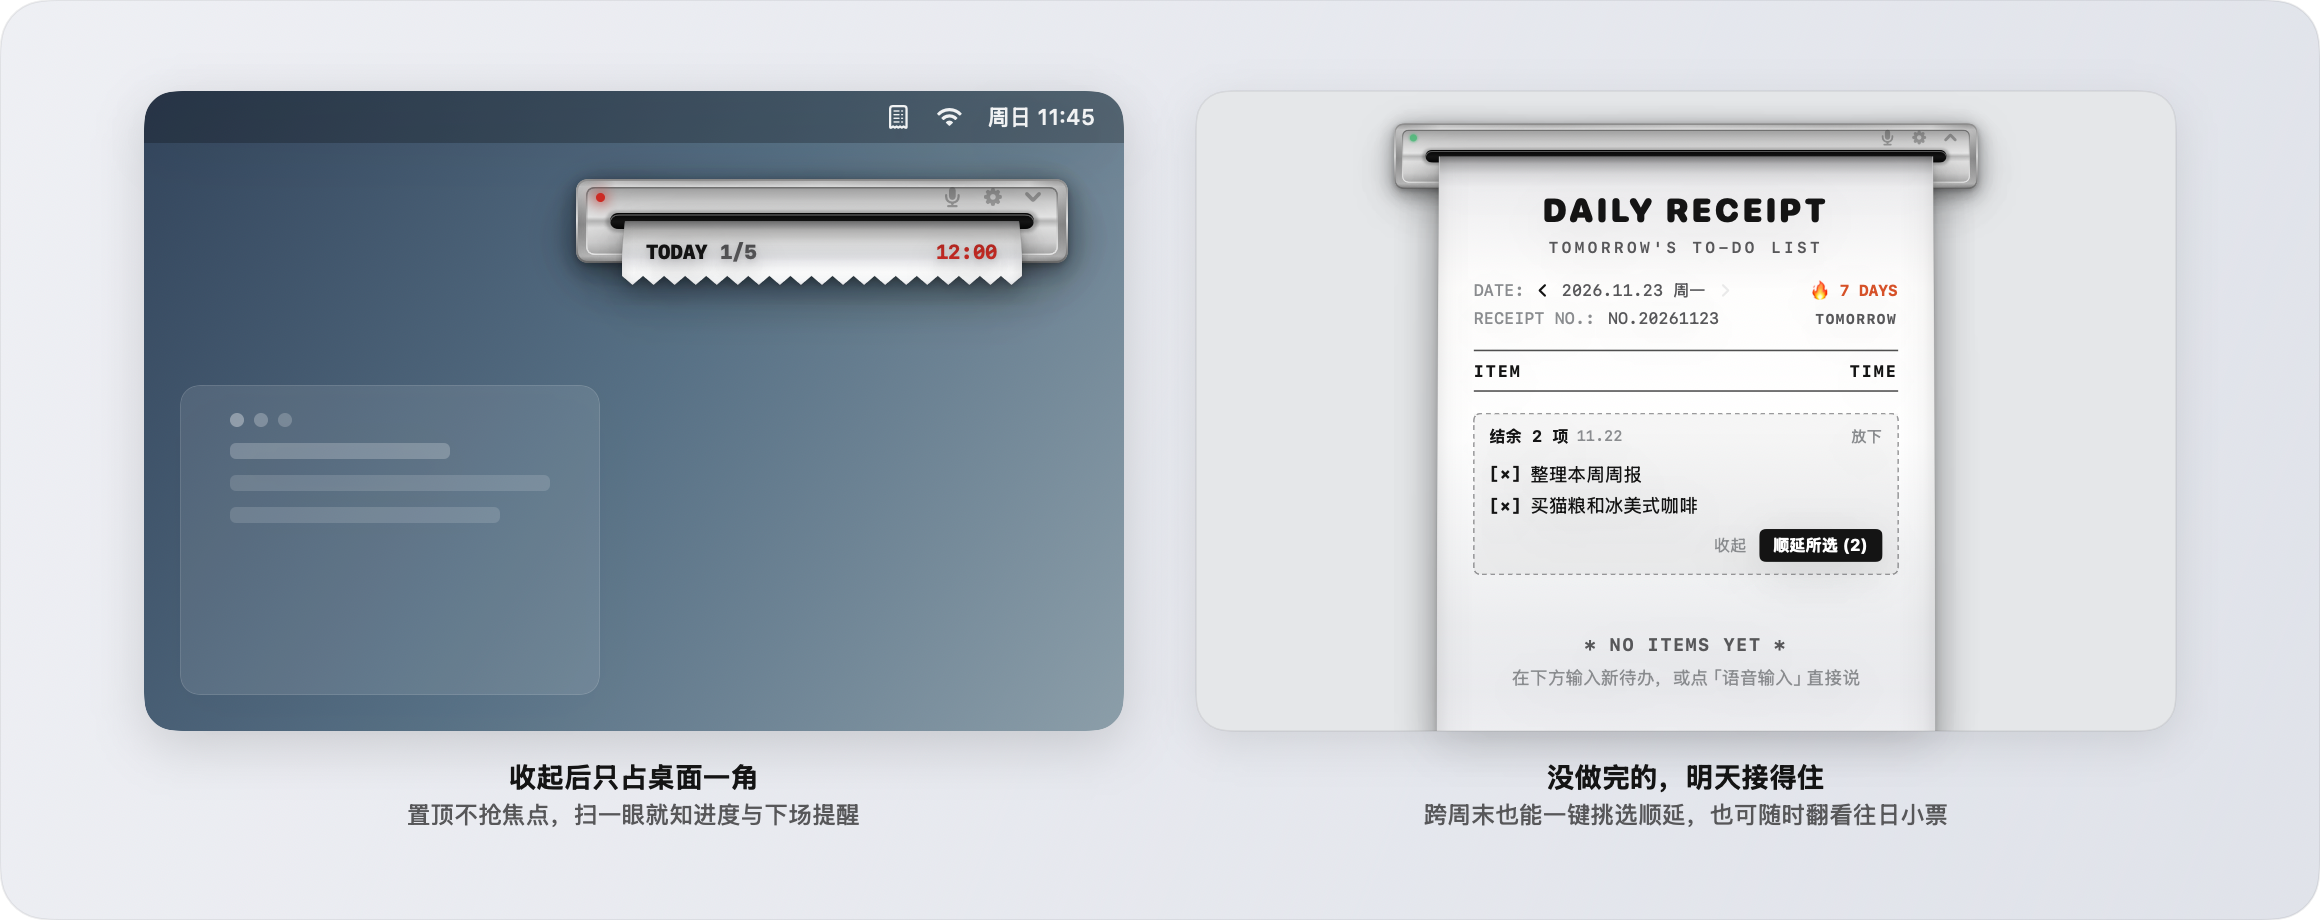
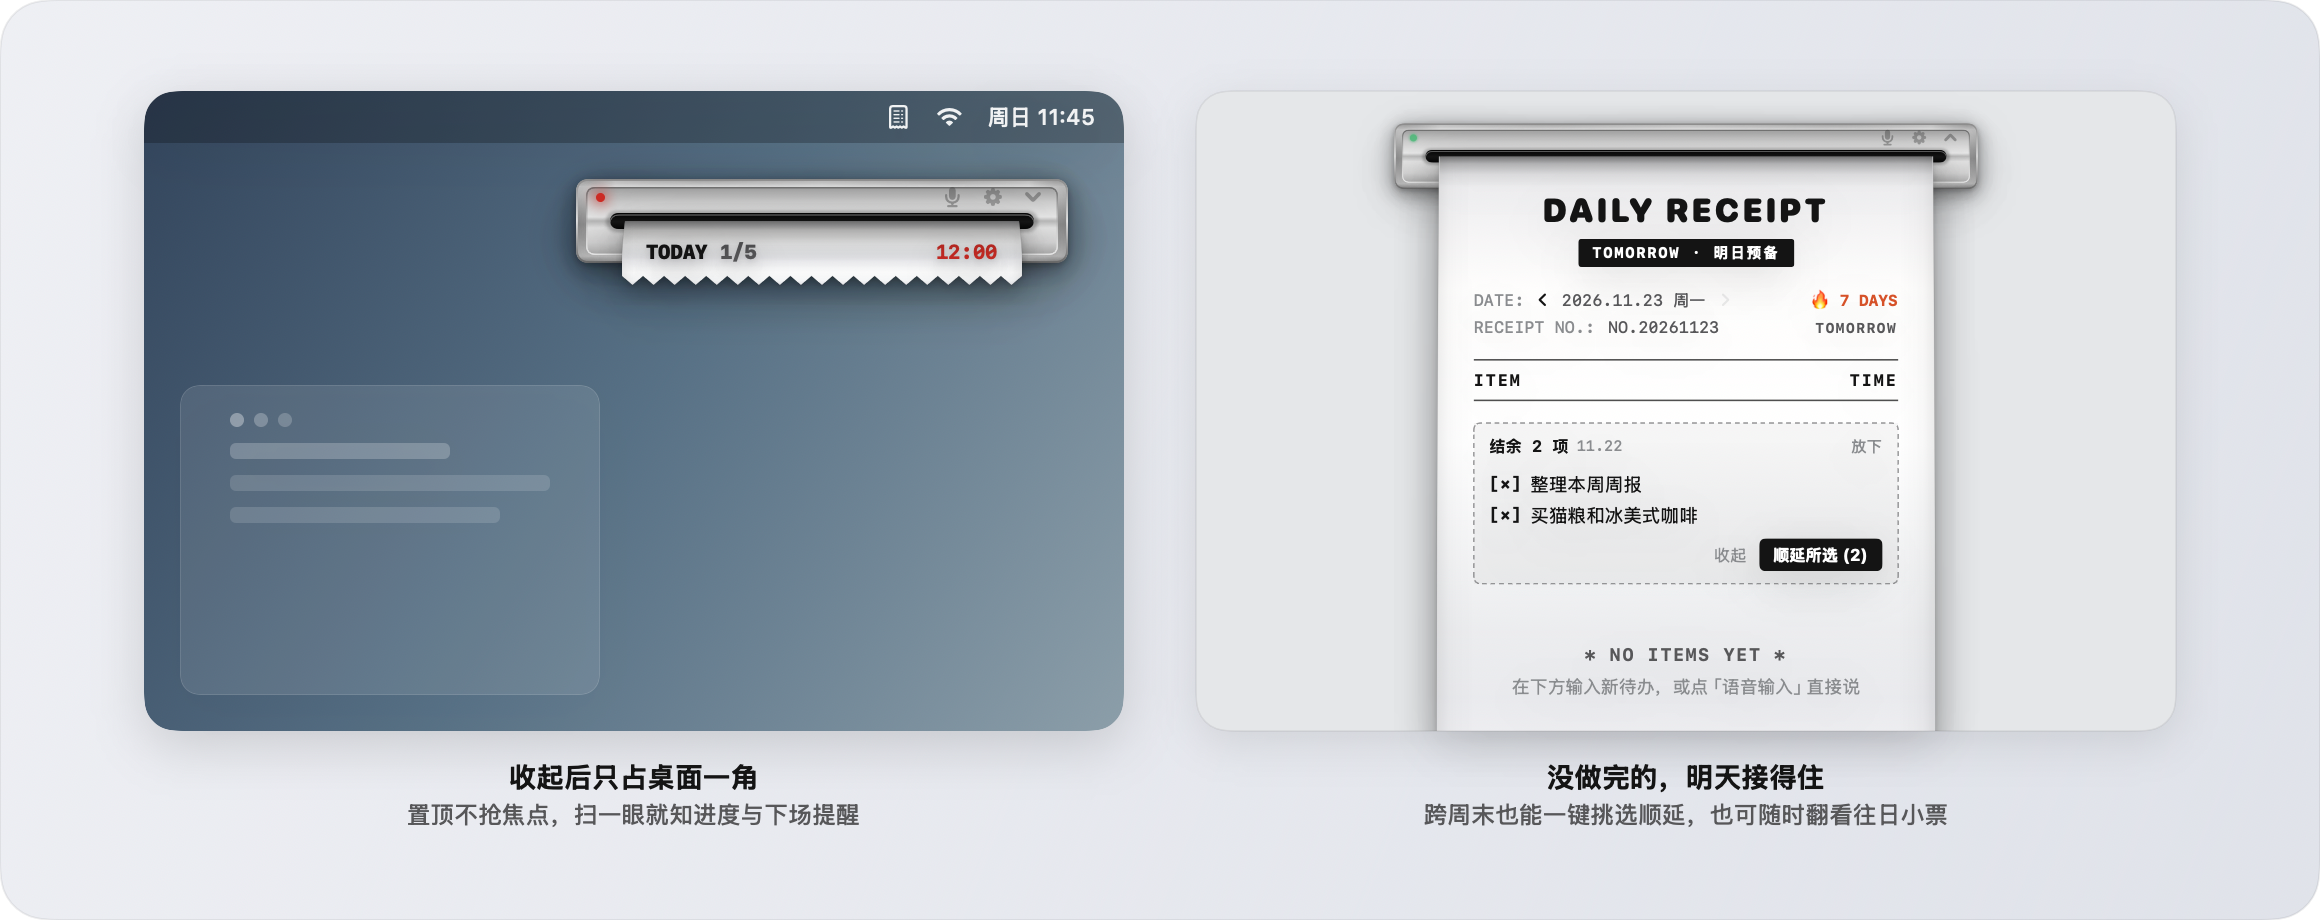
ui: add high-contrast TOMORROW badge on tomorrow receipt header

Changed region(s): [[0.6207, 0.2435, 0.8379, 0.5783], [0.6517, 0.7, 0.8069, 0.7609], [0.7448, 0.5478, 0.8069, 0.6391]]

diff --git a/Sources/ReceiptTodo/Views/ReceiptCardView.swift b/Sources/ReceiptTodo/Views/ReceiptCardView.swift
@@ -523,18 +523,29 @@ struct ReceiptCardView: View {
     // MARK: - Editorial Header
 
     private var receiptHeaderSection: some View {
-        VStack(spacing: 5) {
+        VStack(spacing: 6) {
             Text("DAILY RECEIPT")
                 .font(.system(size: 21, weight: .black, design: .rounded))
                 .tracking(2.0)
                 .foregroundColor(ReceiptTheme.ink)
                 .frame(maxWidth: .infinity, alignment: .center)
 
-            Text(store.isViewingTomorrow ? "TOMORROW'S TO-DO LIST" : "TODAY'S TO-DO LIST")
-                .font(.system(size: 10, weight: .semibold, design: .monospaced))
-                .tracking(2.2)
-                .foregroundColor(ReceiptTheme.inkSecondary)
-                .frame(maxWidth: .infinity, alignment: .center)
+            if store.isViewingTomorrow {
+                Text("TOMORROW · 明日预备")
+                    .font(.system(size: 9.5, weight: .bold, design: .monospaced))
+                    .tracking(1.2)
+                    .foregroundColor(.white)
+                    .padding(.horizontal, 9)
+                    .padding(.vertical, 3)
+                    .background(ReceiptTheme.ink)
+                    .cornerRadius(2)
+            } else {
+                Text("TODAY'S TO-DO LIST")
+                    .font(.system(size: 10, weight: .semibold, design: .monospaced))
+                    .tracking(2.2)
+                    .foregroundColor(ReceiptTheme.inkSecondary)
+                    .frame(maxWidth: .infinity, alignment: .center)
+            }
         }
     }
 
